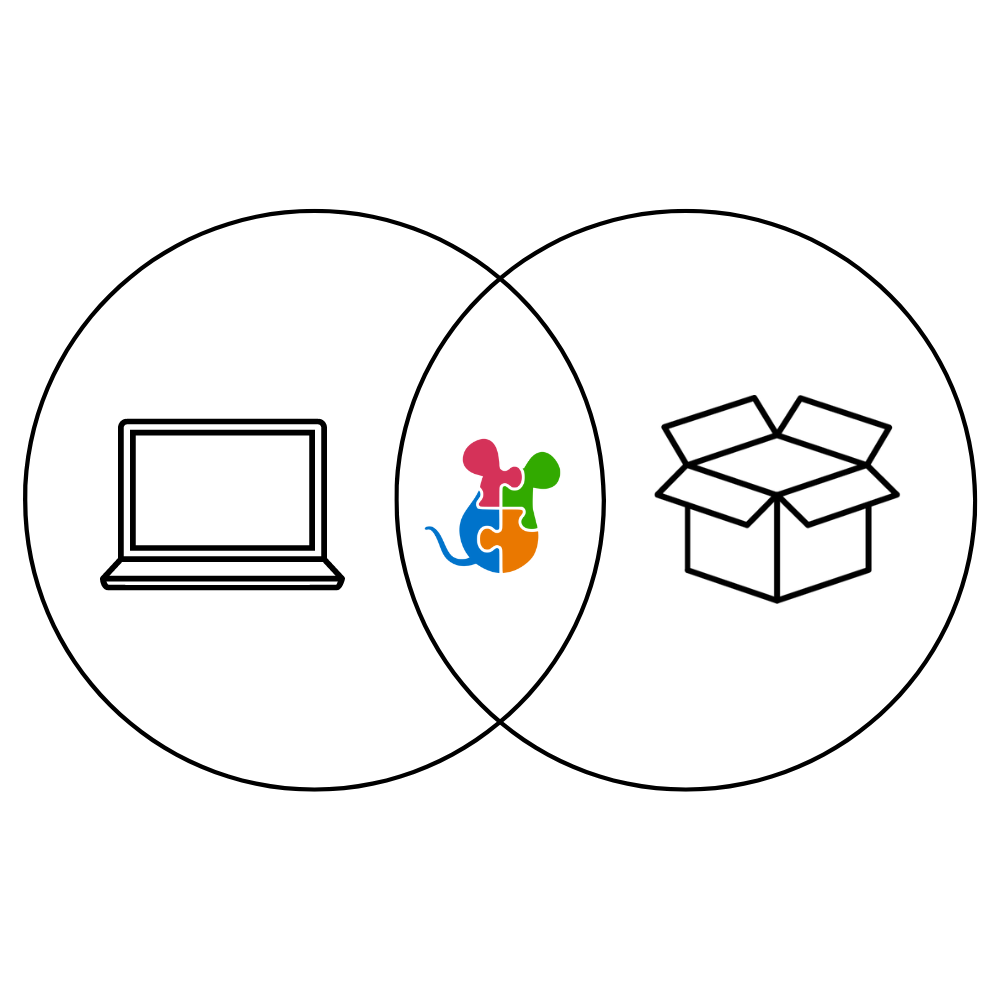
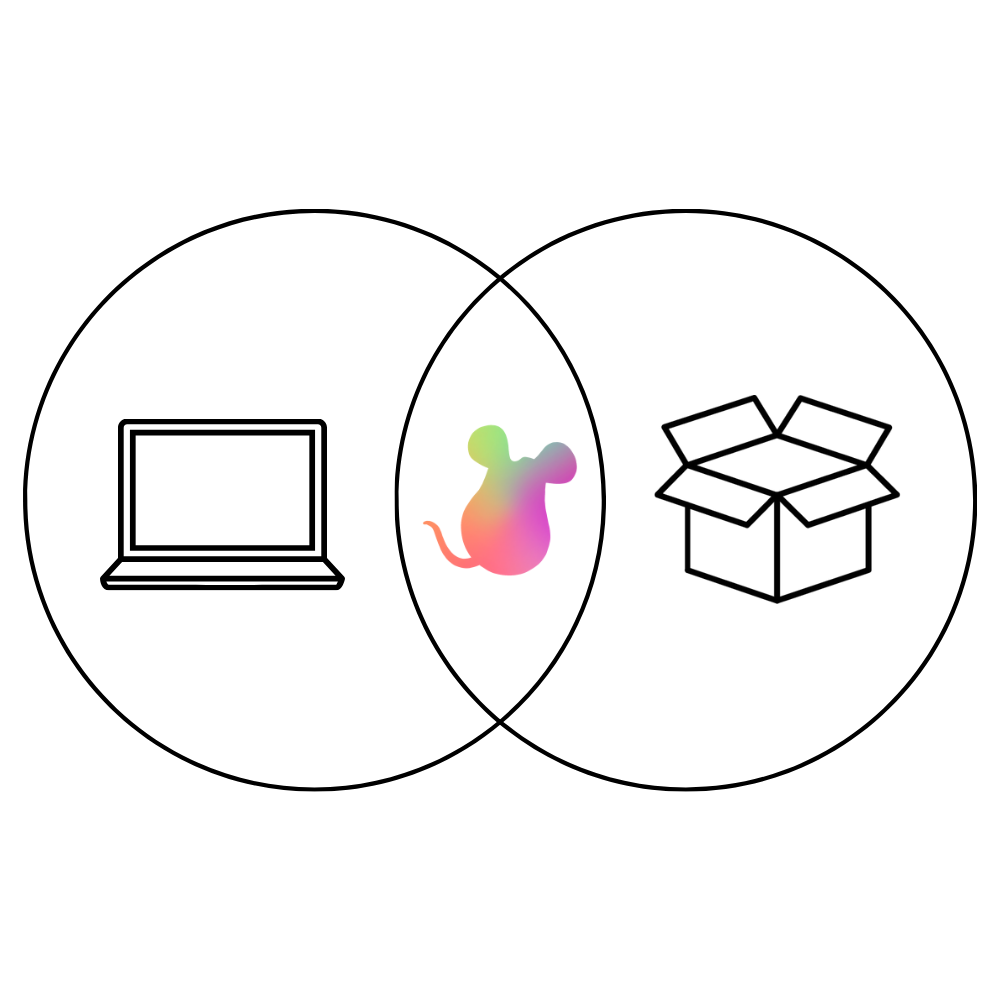
rebranding

Changed region(s): [[0.434, 0.403, 0.589, 0.589]]

diff --git a/src/components/cta/GetStarted.js b/src/components/cta/GetStarted.js
@@ -3,51 +3,65 @@ import styled from "styled-components"; //eslint-disable-line
 import tw from "twin.macro";
 import { css } from "styled-components/macro"; //eslint-disable-line
 import { ReactComponent as SvgDecoratorBlob1 } from "images/svg-decorator-blob-9.svg";
-import { ContentWithPaddingXl, Container } from "components/misc/Layouts";
-
-const PrimaryBackgroundContainer = tw.div`py-20 lg:py-24 bg-primary-500 rounded-lg relative`
+import { Container } from "components/misc/Layouts";
+const ContentWithPaddingXl = tw.div`max-w-screen-xl mx-auto`;
+const PrimaryBackgroundContainer = tw.div`py-20 lg:py-24 bg-primary-500 rounded-lg relative`;
 const Row = tw.div`px-8 max-w-screen-lg mx-auto flex items-center relative z-10 flex-col lg:flex-row text-center lg:text-left`;
 
-const ColumnContainer = tw.div`lg:w-1/2 max-w-lg`
+const ColumnContainer = tw.div`lg:w-1/2 max-w-lg`;
 const TextContainer = tw(ColumnContainer)``;
 const Text = tw.h5`text-gray-100 text-2xl sm:text-3xl font-bold`;
 
-const LinksContainer = tw(ColumnContainer)`flex justify-center lg:justify-end mt-6 lg:mt-0 flex-col sm:flex-row`;
+const LinksContainer = tw(
+  ColumnContainer
+)`flex justify-center lg:justify-end mt-6 lg:mt-0 flex-col sm:flex-row`;
 
 const Link = tw.a`w-full sm:w-auto text-sm sm:text-base px-6 py-3 sm:px-8 sm:py-4 lg:px-10 lg:py-5 mt-4 first:mt-0 sm:mt-0 sm:mr-8 sm:last:mr-0 rounded-full font-bold border border-transparent tracking-wide transition duration-300 focus:outline-none focus:shadow-outline`;
-const PrimaryLink = tw(Link)`bg-red-500 text-gray-100 shadow-lg hocus:bg-red-600 hocus:text-gray-200`;
+const PrimaryLink = tw(
+  Link
+)`bg-red-500 text-gray-100 shadow-lg hocus:bg-red-600 hocus:text-gray-200`;
 
-const SecondaryLink = tw(Link)`text-gray-100 border-gray-500 hover:bg-gray-100 hover:text-primary-500 hover:border-primary-500`;
+const SecondaryLink = tw(
+  Link
+)`text-gray-100 border-gray-500 hover:bg-gray-100 hover:text-primary-500 hover:border-primary-500`;
 
-const DecoratorBlobContainer = tw.div`absolute inset-0 overflow-hidden rounded-lg`
-const DecoratorBlob1 = tw(SvgDecoratorBlob1)`absolute bottom-0 left-0 w-80 h-80 transform -translate-x-20 translate-y-32 text-primary-700 opacity-50`
-const DecoratorBlob2 = tw(SvgDecoratorBlob1)`absolute top-0 right-0 w-80 h-80 transform  translate-x-20 -translate-y-64 text-primary-700 opacity-50`
+const DecoratorBlobContainer = tw.div`absolute inset-0 overflow-hidden rounded-lg`;
+const DecoratorBlob1 = tw(
+  SvgDecoratorBlob1
+)`absolute bottom-0 left-0 w-80 h-80 transform -translate-x-20 translate-y-32 text-primary-700 opacity-50`;
+const DecoratorBlob2 = tw(
+  SvgDecoratorBlob1
+)`absolute top-0 right-0 w-80 h-80 transform  translate-x-20 -translate-y-64 text-primary-700 opacity-50`;
 export default ({
-  text = "Developers all over the world are happily using Treact.",
-  primaryLinkText = "Get Started",
-  primaryLinkUrl = "http://timerse.com",
-  secondaryLinkText = "Contact Us",
-  secondaryLinkUrl = "http://google.com",
-  pushDownFooter = true
+  text = "Sign up to receive monthly resources and opportunities!",
+  primaryLinkText = "Sign Up",
+  primaryLinkUrl = "https://docs.google.com/forms/d/e/1FAIpQLSeTuVnWaGl2MJXEgeM2AsB3mSU9oPEVWGXymL4_joRiTr2vhg/viewform?usp=sf_link",
+  secondaryLinkText = "Learn More",
+  secondaryLinkUrl = "https://docs.google.com/document/d/1uZLggJMVMD-DtF8xps0URZrpsLuYX3O34nRmTE8xnAY/edit?usp=sharing",
+  pushDownFooter = true,
 }) => {
   return (
-    <Container css={pushDownFooter && tw`mb-20 lg:mb-24`}>
+    <Container css={pushDownFooter && tw`mb-16`}>
       <ContentWithPaddingXl>
-      <PrimaryBackgroundContainer>
-        <Row>
-          <TextContainer>
-            <Text>{text}</Text>
-          </TextContainer>
-          <LinksContainer>
-            <PrimaryLink href={primaryLinkUrl}>{primaryLinkText}</PrimaryLink>
-            <SecondaryLink href={secondaryLinkUrl}>{secondaryLinkText}</SecondaryLink>
-          </LinksContainer>
-        </Row>
-        <DecoratorBlobContainer>
-          <DecoratorBlob1/>
-          <DecoratorBlob2/>
-        </DecoratorBlobContainer>
-      </PrimaryBackgroundContainer>
+        <PrimaryBackgroundContainer>
+          <Row>
+            <TextContainer>
+              <Text>{text}</Text>
+            </TextContainer>
+            <LinksContainer>
+              <PrimaryLink target={"_blank"} href={primaryLinkUrl}>
+                {primaryLinkText}
+              </PrimaryLink>
+              <SecondaryLink target={"_blank"} href={secondaryLinkUrl}>
+                {secondaryLinkText}
+              </SecondaryLink>
+            </LinksContainer>
+          </Row>
+          <DecoratorBlobContainer>
+            <DecoratorBlob1 />
+            <DecoratorBlob2 />
+          </DecoratorBlobContainer>
+        </PrimaryBackgroundContainer>
       </ContentWithPaddingXl>
     </Container>
   );

diff --git a/src/components/faqs/SingleCol.js b/src/components/faqs/SingleCol.js
@@ -56,7 +56,7 @@ export default ({
     {
       question: "How large of a time commitment is this?",
       answer:
-        "Starting an AUesome Chapter is not a huge time commitment, averaging around an hour per week. Given that it is more of a self-paced learning experience, commitment can vary based on your time and interests. The only official meetings you have to attend are the onboarding session and our annual leadership get-together.",
+        "Starting an AUesome Chapter averages around 1-2 hours a month. Given that it is more of a self-paced learning experience, commitment can vary based on your time and interests. The only official meetings you have to attend are the onboarding session and our annual leadership get-together.",
     },
     {
       question: "What criteria do I have to fulfill to lead a chapter?",

diff --git a/src/pages/Clubs.js b/src/pages/Clubs.js
@@ -7,6 +7,7 @@ import Header from "components/headers/light.js";
 import Footer from "components/footers/SimpleFiveColumn";
 import Feature from "components/features/TwoColWithTwoFeaturesAndButtons";
 import MainFeature1 from "components/features/OneWideCol";
+import CTA from "components/cta/GetStarted";
 import FAQ from "components/faqs/SingleCol";
 const Subheading = tw.span`uppercase tracking-wider text-sm`;
 
@@ -15,6 +16,7 @@ export default () => {
     <AnimationRevealPage disabled>
       <Header />
       <Feature />
+      <CTA />
       <MainFeature1 />
       <FAQ />
       <Footer />

diff --git a/src/tailwind.config.js b/src/tailwind.config.js
@@ -17,15 +17,15 @@ module.exports = {
       white: "#fff",
 
       primary: {
-        100: "#66ABDF",
-        200: "#4C9DDA",
-        300: "#338FD5",
-        400: "#1981D0",
-        500: "#0073CB",
-        600: "#0067B6",
-        700: "#005CA2",
-        800: "#00508E",
-        900: "#004579",
+        100: "#d9a1d6",
+        200: "#d28fce",
+        300: "#cb7cc6",
+        400: "#c36abe",
+        500: "#bc58b6",
+        600: "#b348ac",
+        700: "#a1409b",
+        800: "#8e3989",
+        900: "#7c3277",
       },
       // 100: '#a273ff',
       // 200: '#935bff',

diff --git a/src/components/features/TwoColWithTwoFeaturesAndButtons.js b/src/components/features/TwoColWithTwoFeaturesAndButtons.js
@@ -9,7 +9,7 @@ import {
 import { PrimaryButton as PrimaryButtonBase } from "components/misc/Buttons.js";
 import { ReactComponent as BriefcaseIcon } from "feather-icons/dist/icons/users.svg";
 import { ReactComponent as MoneyIcon } from "feather-icons/dist/icons/heart.svg";
-import TeamIllustrationSrc from "images/logo.png";
+import TeamIllustrationSrc from "images/Advocacy.png";
 
 const Container = tw.div`relative`;
 const TwoColumn = tw.div`flex flex-col md:flex-row justify-between max-w-screen-xl mx-auto pt-20 md:pt-24 pb-8`;

diff --git a/src/components/cards/ProfileThreeColGrid.js b/src/components/cards/ProfileThreeColGrid.js
@@ -135,7 +135,7 @@ export default ({
     },
     {
       imageSrc: Lauren,
-      position: "vice Director",
+      position: "Public Relations Director",
       name: "Lauren Pearson",
       links: [
         {
